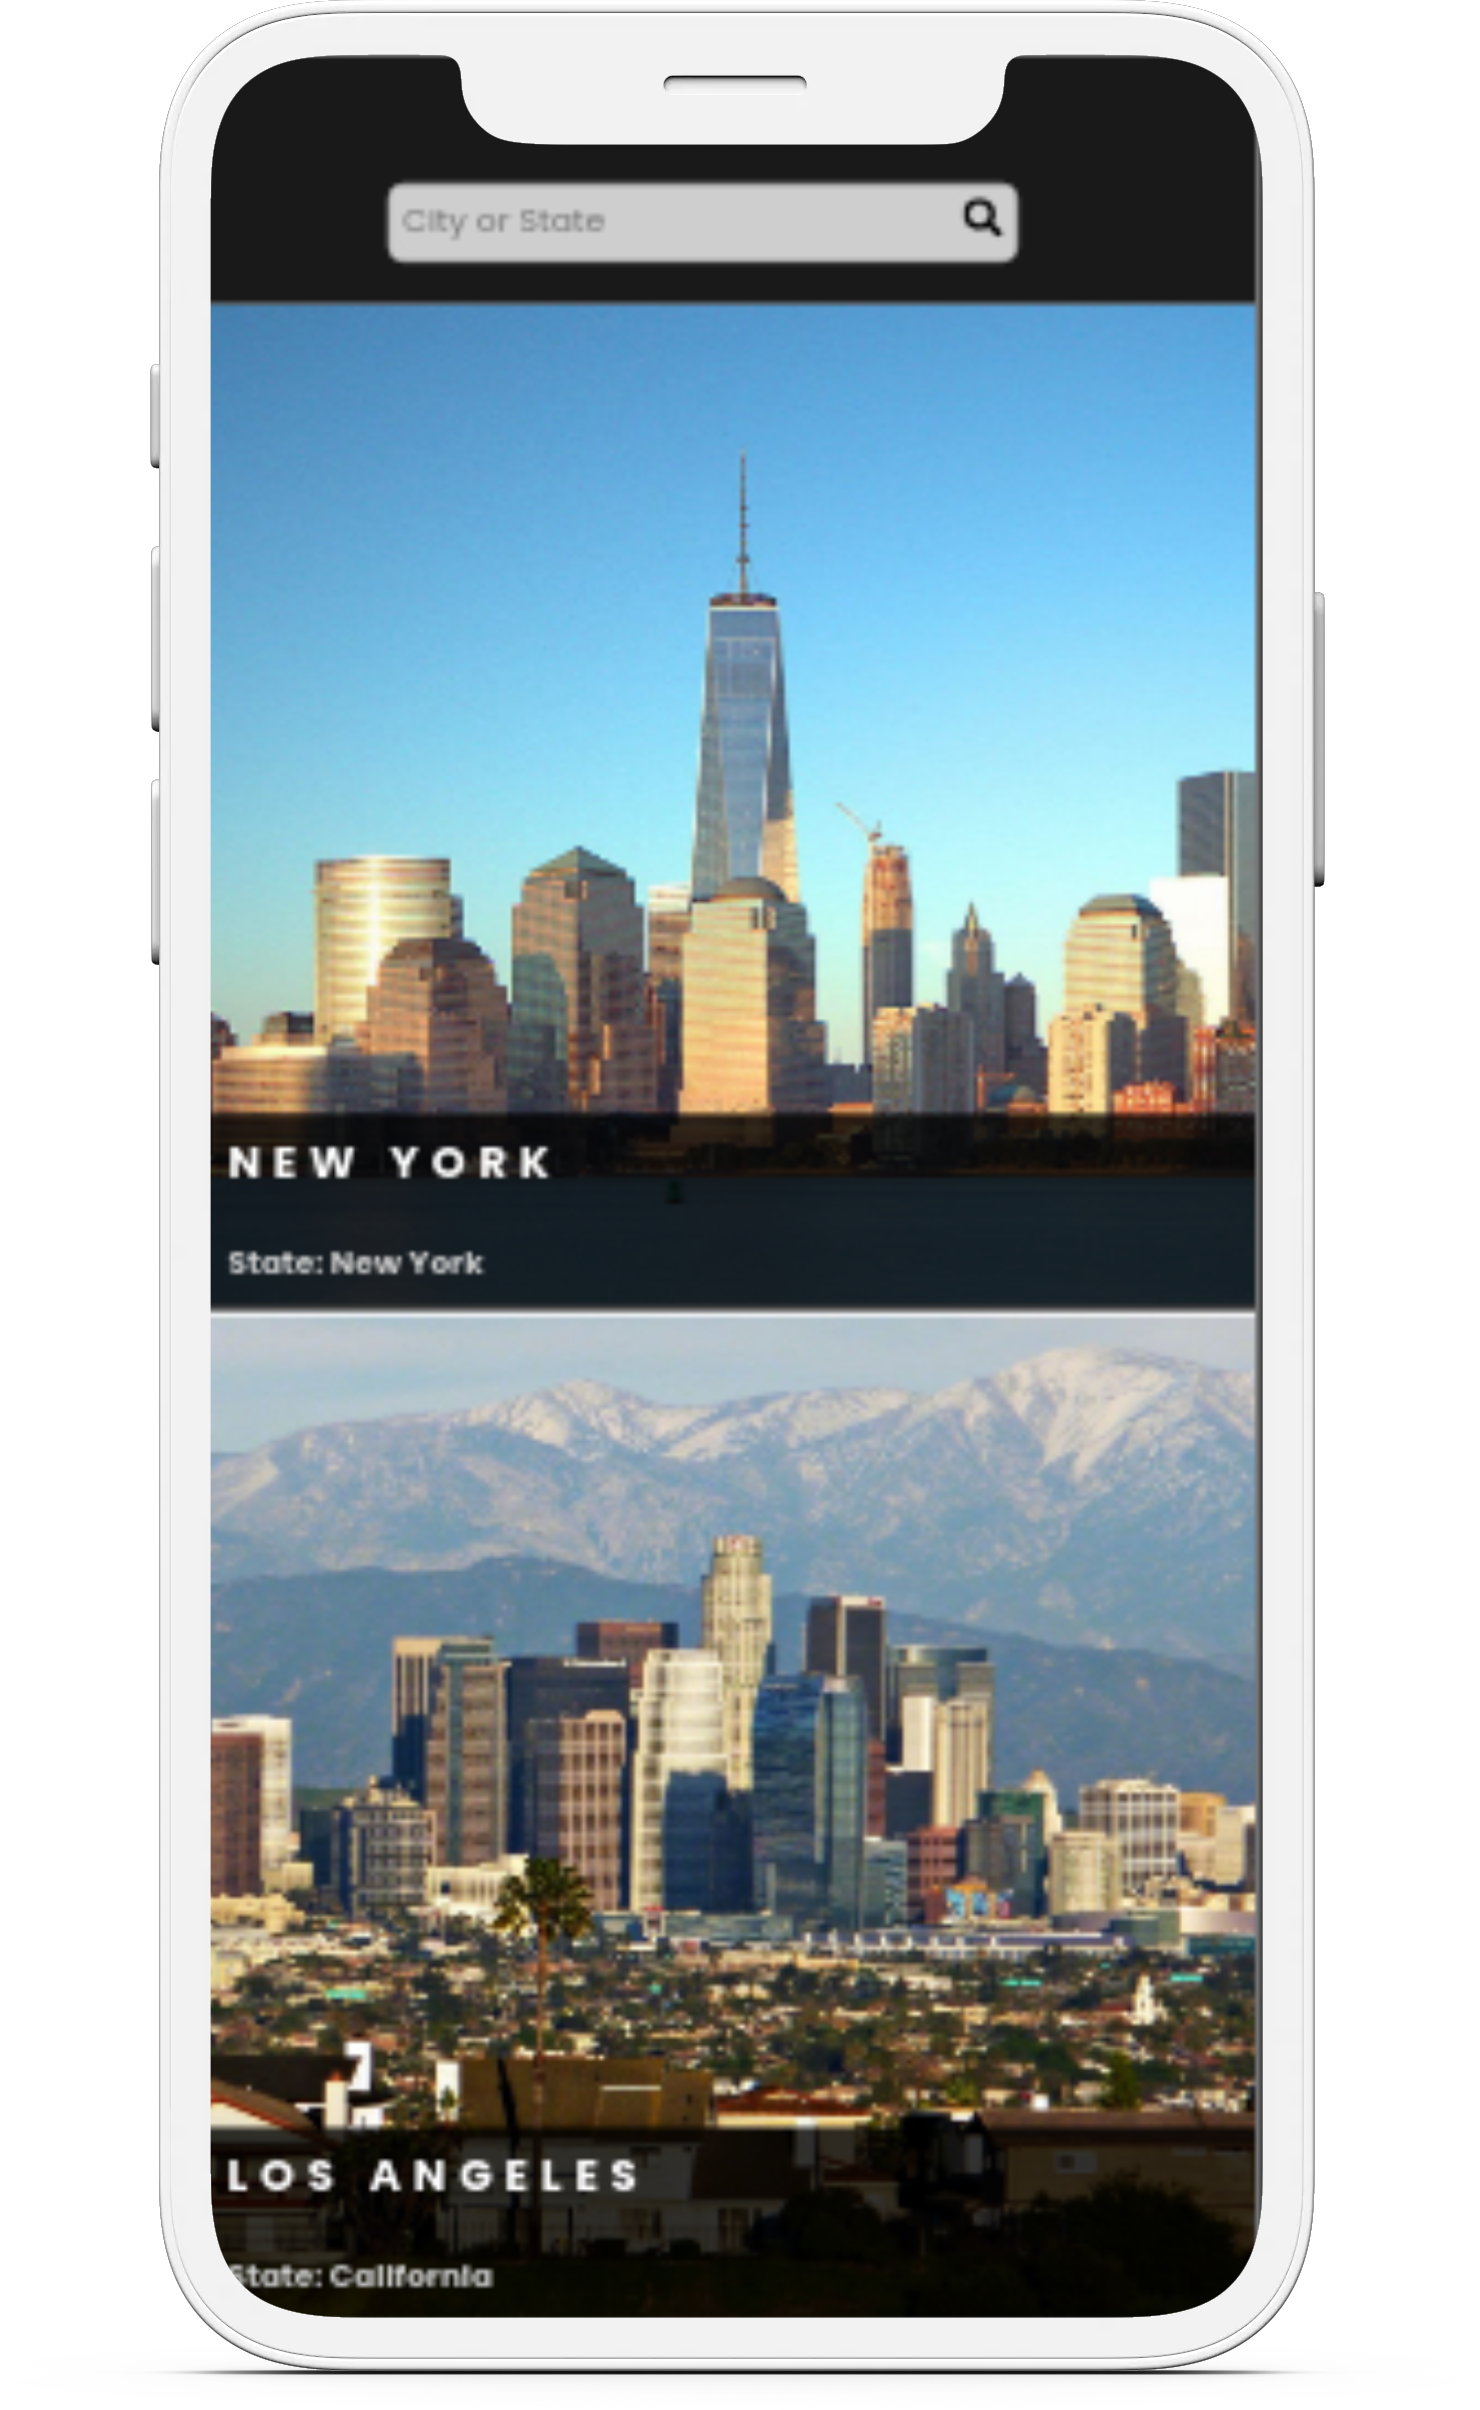
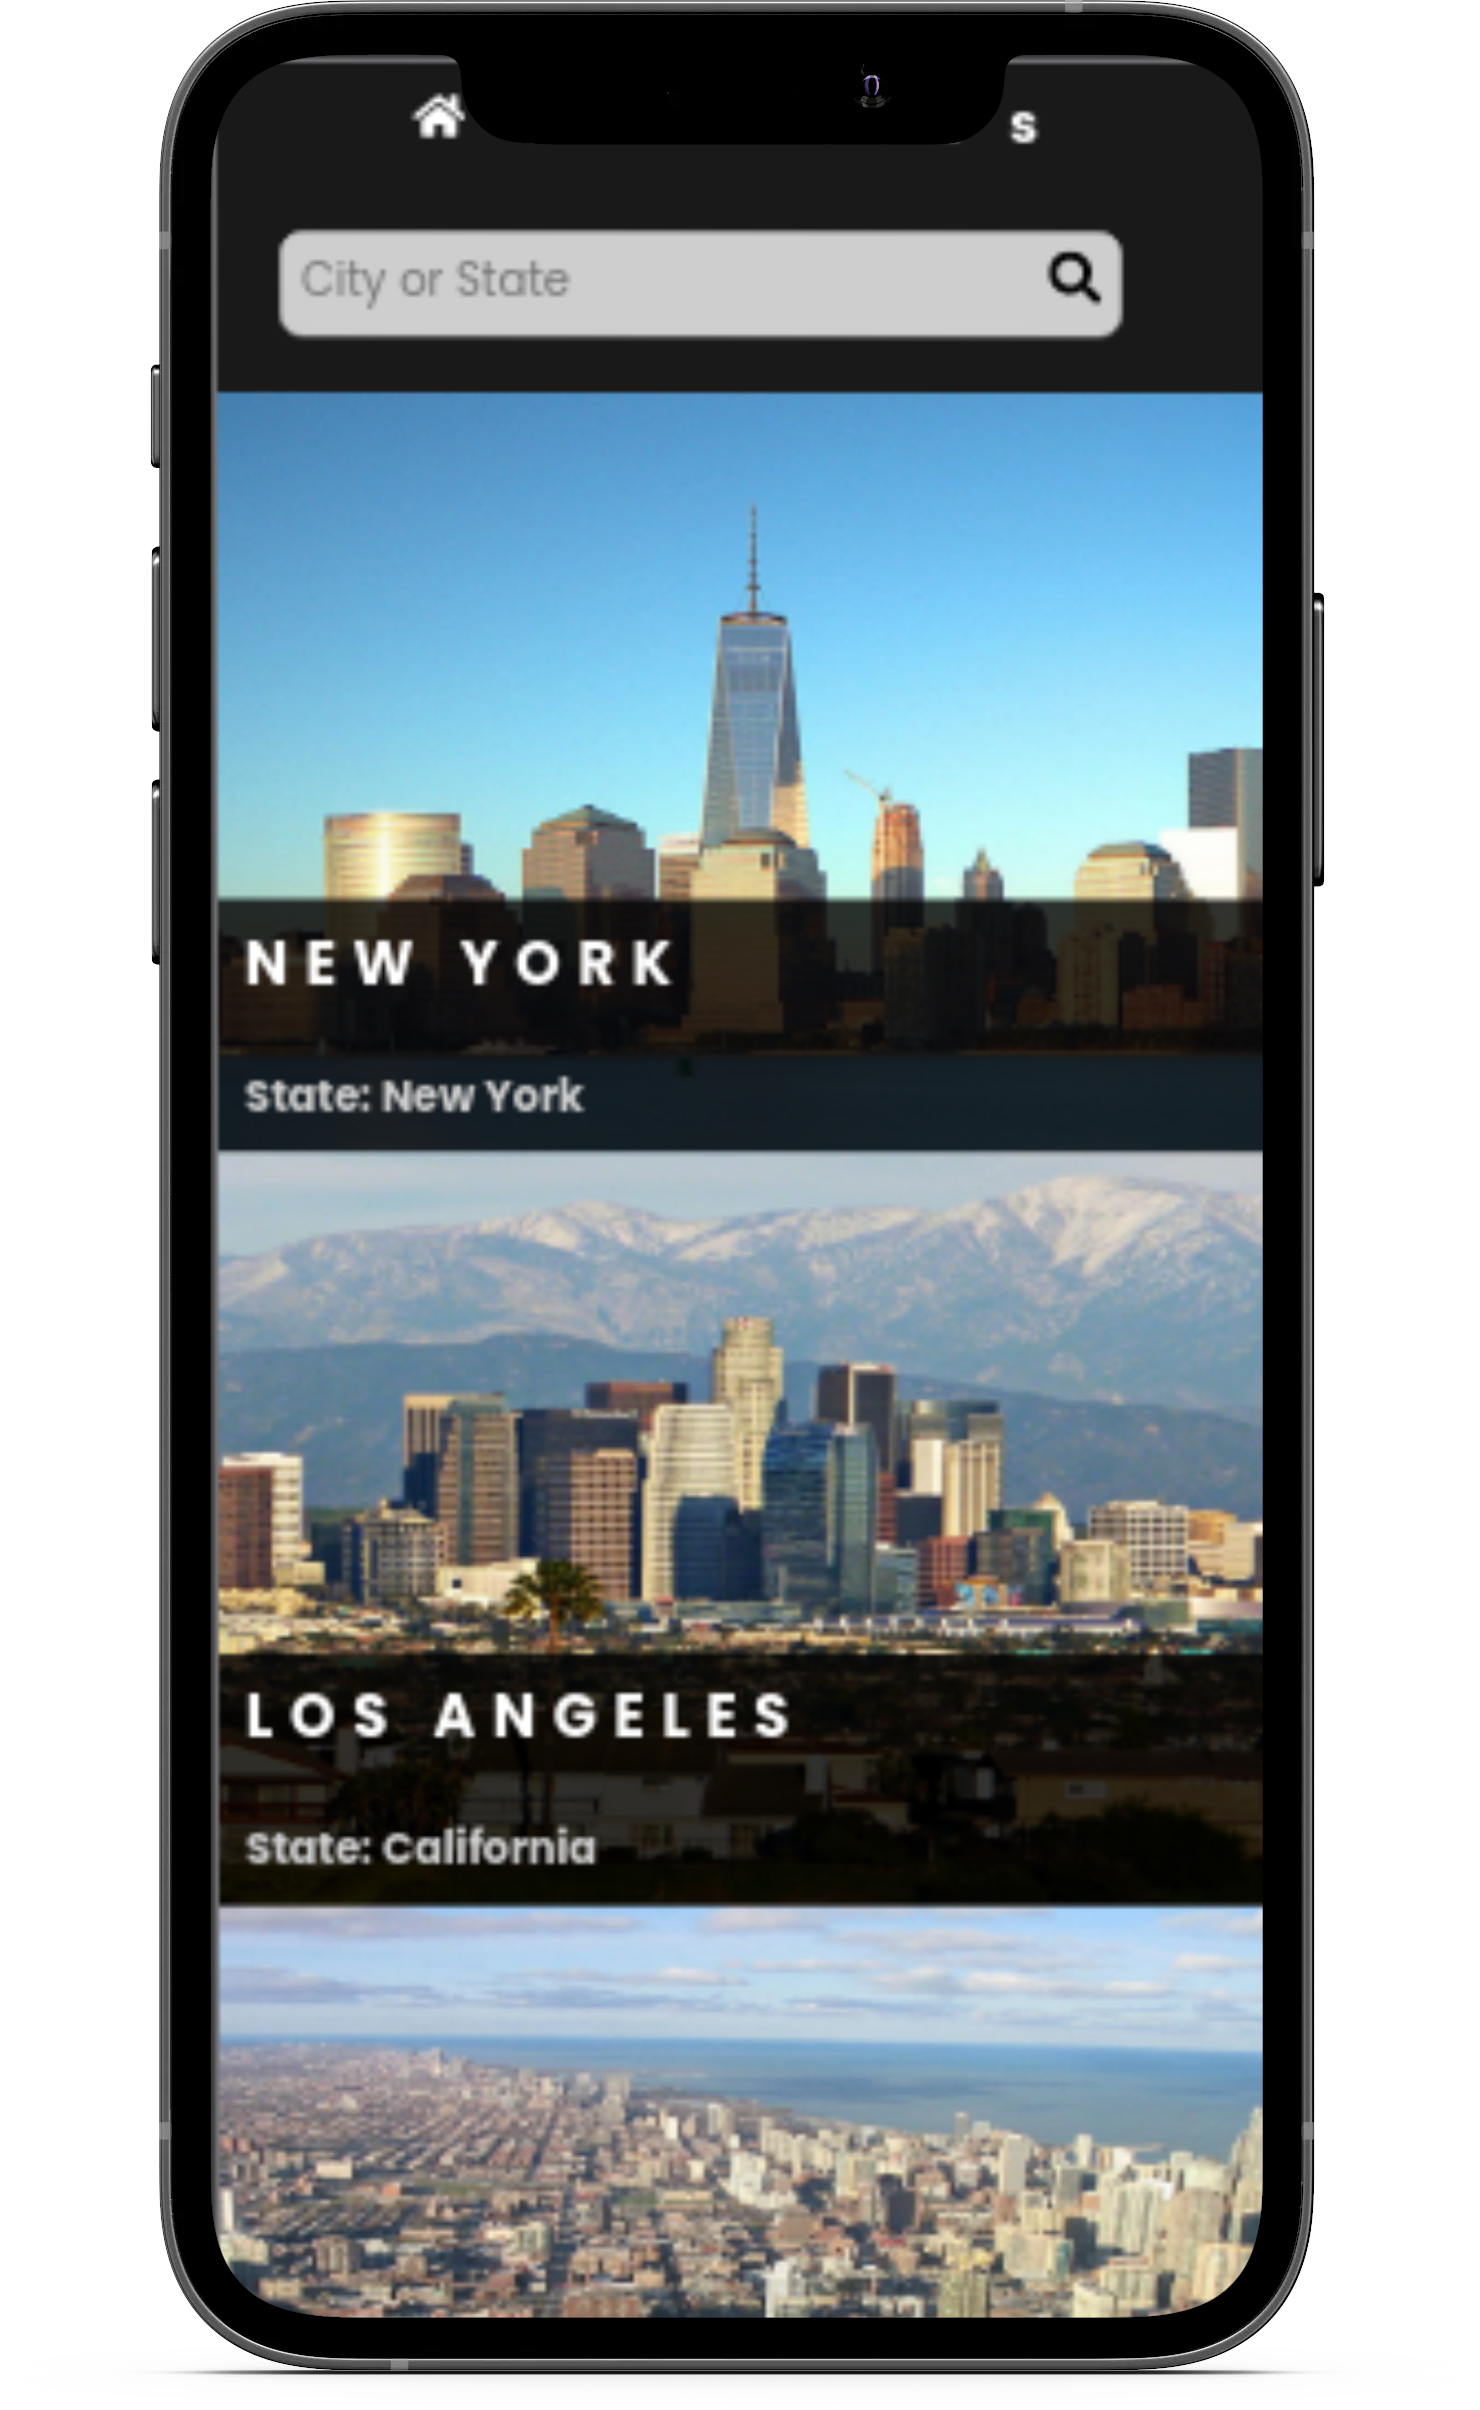
Fix the failing mockup

diff --git a/src/assets/styles/styles.scss b/src/assets/styles/styles.scss
@@ -64,10 +64,10 @@
 
 .list-one-city {
   width: 100%;
-  height: 40vh;
+  height: 30vh;
 
   img {
-    height: 99%;
+    height: 100%;
     width: 100%;
     position: relative;
     top: 0;

diff --git a/README.md b/README.md
@@ -1,6 +1,6 @@
 # UsCities Catalogue
 ![Tests with node](https://github.com/descholar-ceo/us-cities-catalogue/workflows/Tests%20with%20node/badge.svg)  ![Linters](https://github.com/descholar-ceo/us-cities-catalogue/workflows/Linters/badge.svg)
-> A simple bookstore management with React/Redux
+> A simple catalogue of US Cities with React/Redux
 
 ![us-cities-catalogue screenshot](./src/assets/images/us-cities-screenshot.png)
 
